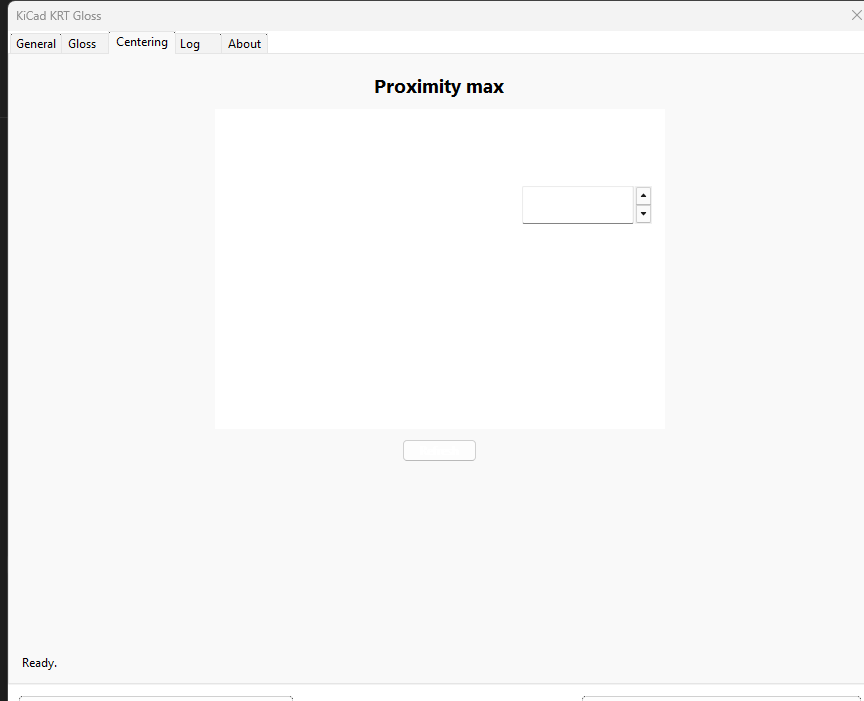
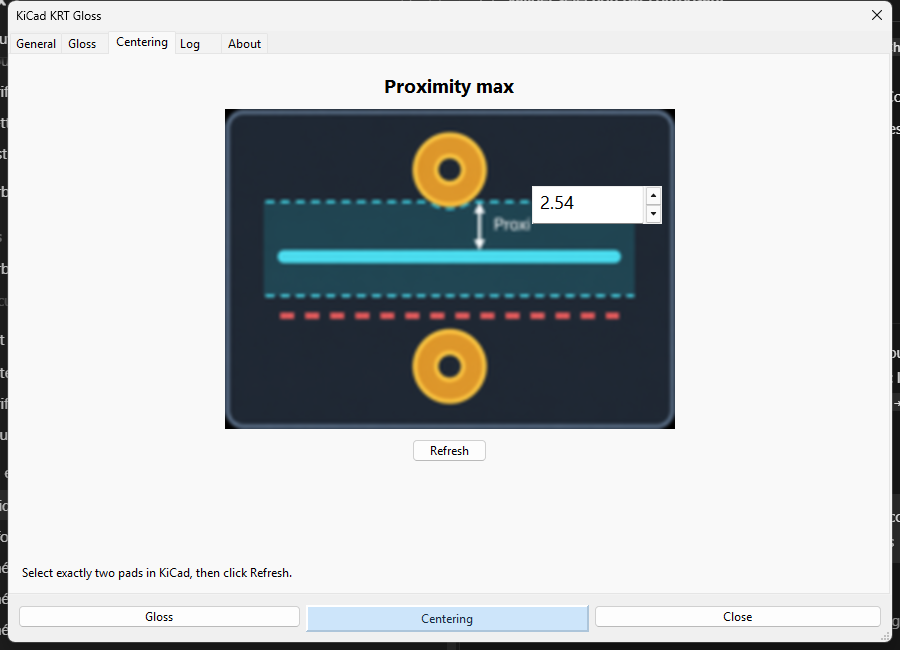
Condense English plugin guide and correct attribution

diff --git a/tests/test_plugin_boundaries.py b/tests/test_plugin_boundaries.py
@@ -220,7 +220,7 @@ def test_apply_uses_zone_refill_boundary():
 def test_pcm_presentation_keeps_authorship_and_plain_krt_link():
     metadata = json.loads((ROOT / "kicad_krt_gloss" / "metadata.json").read_text(
         encoding="utf-8"))
-    assert metadata["author"]["name"] == "Frantz with ChatGPT/Codex (OpenAI)"
+    assert metadata["author"]["name"] == "Frantz"
     assert metadata["maintainer"]["name"] == "Frantz"
     assert metadata["author"]["contact"]["github"] == (
         "https://github.com/fca1/kicad_krt_gloss")
@@ -591,7 +591,7 @@ def test_about_tab_uses_project_versions_and_attribution():
     assert '("KRG version:", __version__, None)' in source
     assert '("KRT version:", self._krt_version(), None)' in source
     assert '("Author:", "Frantz",' in source
-    assert '("Co-author:", "ChatGPT/Codex (OpenAI)", None)' in source
+    assert '("Assisted by:", "ChatGPT/Codex (OpenAI)", None)' in source
     assert '("KRT author:", "DrAndyHaas",' in source
     assert 'label="GitHub Repository"' in source
     assert '"https://github.com/fca1/kicad_krt_gloss"' in source
@@ -599,6 +599,16 @@ def test_about_tab_uses_project_versions_and_attribution():
     assert "info.AddSpacer(10)" in source
     assert "info.AddSpacer((1, 10))" not in source
     assert 'self.selected_net_label.SetLabel(f"Selected Nets: {len(names)}")' in source
+
+
+def test_public_readme_is_plugin_only_and_explains_two_pad_proximity():
+    readme = (ROOT / "README.md").read_text(encoding="utf-8")
+    assert "select <strong>exactly two pads</strong>" in readme
+    assert "Click <strong>Refresh</strong>" in readme
+    assert "centre-to-centre distance" in readme
+    assert "## Command line" not in readme
+    assert "python gloss.py" not in readme
+    assert "**Frantz** is the author" in readme
 
 
 def test_pcm_package_includes_the_about_logo():

diff --git a/kicad_krt_gloss/settings_dialog.py b/kicad_krt_gloss/settings_dialog.py
@@ -195,7 +195,7 @@ class GlossSettingsDialog(wx.Dialog):
             ("KRT version:", self._krt_version(), None),
             ("Author:", "Frantz",
              "https://github.com/fca1/kicad_krt_gloss"),
-            ("Co-author:", "ChatGPT/Codex (OpenAI)", None),
+            ("Assisted by:", "ChatGPT/Codex (OpenAI)", None),
             (None, None, None),
             ("KRT author:", "DrAndyHaas",
             "https://github.com/drandyhaas/KiCadRoutingTools"),

diff --git a/README.md b/README.md
@@ -1,189 +1,100 @@
 # KiCad KRT Gloss
 
-**Transformez un routage déjà terminé en un cuivre plus direct, plus simple et
-mieux centré, sans le redessiner.** KiCad KRT Gloss est un plugin pour
-l’Éditeur de circuit imprimé de KiCad : il améliore les pistes existantes en
-respectant les contraintes de votre carte.
+KiCad KRT Gloss shortens, simplifies and centres tracks on an already routed
+PCB. KRT remains responsible for obstacle, clearance and connectivity checks.
 
-![Un détour de piste devient une liaison plus directe.](docs/assets/gloss-before-after.png)
+![A routed detour replaced by a shorter connection.](docs/assets/gloss-before-after.png)
 
-Gloss ne remplace pas le routeur interactif et ne crée pas une carte à partir
-de rien. Il travaille uniquement sur le cuivre déjà routé. KRT reste chargé de
-vérifier les obstacles, les clearances et la connectivité avant qu’une
-modification ne soit acceptée.
+## Install
 
-## Installer et ouvrir le plugin
+In KiCad, open **Plugin and Content Manager**, choose **Install from File…**,
+select the plugin ZIP, then open **PCB Editor → Tools → External Plugins →
+KiCad KRT Gloss**.
 
-Installez l’archive ZIP du plugin dans KiCad : ouvrez le **Plugin and Content
-Manager**, choisissez **Install from File…**, sélectionnez l’archive, puis
-redémarrez KiCad si le plugin n’apparaît pas encore. Cette procédure est la
-même que celle employée par les plugins KiCad distribués au format PCM.
+## Choose the scope
 
-Dans l’**Éditeur de circuit imprimé**, ouvrez ensuite
-**Tools → External Plugins → KiCad KRT Gloss**. Vous pouvez aussi lancer le
-plugin depuis son icône de barre d’outils lorsque KiCad l’affiche.
+<table>
+<tr>
+<td width="58%"><img src="docs/assets/dialog-general.png" alt="General tab with the net list and elementary-branch scope"></td>
+<td>
+<ol>
+<li>Check the nets to process.</li>
+<li>Click a row to highlight its remembered scope in KiCad.</li>
+<li>Use <strong>Add</strong> or <strong>Replace</strong> to import the current
+KiCad selection; <strong>Clear</strong> empties the list.</li>
+</ol>
+<p>With <strong>Use elementary branches</strong> enabled, a selected track
+imports its complete branch up to pads, free ends or junctions. A row showing
+<code>n EB</code> contains remembered branches; an empty EB cell means the
+whole net. Disable the option to always process complete nets.</p>
+</td>
+</tr>
+</table>
 
-![L’onglet General rassemble la sélection et les réglages communs.](docs/assets/dialog-general.png)
+If nothing is selected in KiCad, the dialog opens with no checked net. The
+action buttons remain disabled until at least one net is checked.
 
-Deux raccourcis utiles :
+## Gloss
 
-- Avec des pistes d’un seul net sélectionnées, Gloss peut être lancé
-  directement avec les derniers réglages mémorisés.
-- Avec aucune piste, plusieurs nets, ou pour choisir précisément les réglages,
-  la fenêtre ci-dessus s’ouvre. Aucun net n’est coché par défaut si rien n’est
-  sélectionné : c’est volontaire, afin de ne jamais modifier toute la carte
-  par surprise.
+<table>
+<tr>
+<td width="58%"><img src="docs/assets/dialog-gloss.png" alt="Gloss tab"></td>
+<td>
+<ul>
+<li><strong>Stay in corridor</strong> prevents a movement from crossing or
+jumping over an obstacle.</li>
+<li><strong>Movable vias</strong> allows eligible unlocked vias to move.</li>
+<li><strong>Repeat Gloss until stable</strong> requests additional passes, up
+to the displayed G4 limit.</li>
+</ul>
+<p>Click <strong>Gloss</strong>. A valid route may remain unchanged when no safe
+improvement exists.</p>
+</td>
+</tr>
+</table>
 
-## Choisir ce que le plugin peut modifier
+## Centering and Proximity max
 
-La liste de gauche est le point de départ le plus important. Cochez les nets
-que vous souhaitez traiter ; le nombre apparaît dans **Selected Nets**. Cliquer
-sur une ligne permet de la repérer dans KiCad, tandis qu’une coche l’ajoute à
-l’action Gloss ou Centering.
+<table>
+<tr>
+<td width="58%"><img src="docs/assets/dialog-centering.png" alt="Centering tab with Proximity max"></td>
+<td>
+<p>To set <strong>Proximity max</strong> from the board:</p>
+<ol>
+<li>In KiCad, select <strong>exactly two pads</strong>.</li>
+<li>Open the <strong>Centering</strong> tab.</li>
+<li>Click <strong>Refresh</strong>.</li>
+<li>Check the centre-to-centre distance displayed in
+<strong>Proximity max</strong>.</li>
+<li>Check the target net and click <strong>Centering</strong>.</li>
+</ol>
+<p>The two-pad selection is used only to measure Proximity max. The checked net
+or remembered elementary branches define which track is processed.</p>
+</td>
+</tr>
+</table>
 
-![Une branche sélectionnée est limitée entre ses pads, extrémités ou jonctions.](kicad_krt_gloss/img_dlg/selection_scope_illustration.png)
+Proximity max is the largest pad centre-to-centre spacing accepted when
+detecting a gate. Centering first runs a corridor-constrained Gloss, then moves
+the track towards the middle of valid gates. No geometry transformation runs
+after Centering.
 
-Voici à quoi servent les commandes de l’onglet **General** :
+## Review the result
 
-| Réglage ou commande | Utilisation |
-| --- | --- |
-| **Filter** | Retrouve rapidement un net par son nom. |
-| **Comp Filter** / **Component** | Restreint la liste aux nets d’un composant, par exemple `U1`. |
-| **Separate by net class** | Range la liste par classes de nets lorsque la carte en utilise. |
-| **Select / Unselect** | Coche ou décoche les lignes actuellement mises en surbrillance. |
-| **Add** | Ajoute les nets des pistes actuellement sélectionnées dans KiCad aux coches existantes. |
-| **Replace** | Remplace les coches par les nets des pistes actuellement sélectionnées dans KiCad. |
-| **Clear** | Décoche tout, sans modifier votre sélection d’objets dans KiCad. |
-| **Use elementary branches** | Limite le travail à la branche complète portant la piste sélectionnée : elle s’arrête à un pad, une extrémité libre ou une jonction. Décochez cette case pour traiter les nets complets. |
-| **KRT grid step** | Définit la finesse de recherche. Une valeur plus petite peut trouver des gains plus fins, mais demande davantage de temps. |
-| **Time budget** | Limite le temps de la passe initiale. La préparation, la validation finale et les répétitions éventuelles peuvent prolonger le temps total. |
+The **Log** tab records the options, net names and result. The plugin also
+creates or reuses **TrackGloss Changes** on a free User layer: old copper is
+dashed and new copper is solid. This layer is a visual aid, not a replacement
+for KiCad's visual inspection and DRC.
 
-Une branche mémorisée reste liée à la géométrie qui a été importée. Après un
-remplacement de pistes, utilisez à nouveau **Add** ou **Replace** pour la
-réimporter. Lorsqu’un net est entièrement couvert par les branches importées,
-il est simplement traité comme un net complet.
+Gloss and Centering modify existing routing only. Locked or protected copper,
+arcs, differential pairs and constrained tracks remain protected.
 
-## Régler et lancer Gloss
+## Author and licence
 
-Sélectionnez l’onglet **Gloss**, vérifiez les options, puis cliquez sur le
-bouton **Gloss** en bas de la fenêtre. Le bouton reste indisponible tant
-qu’aucun net n’est coché.
+**Frantz** is the author, project owner and maintainer. The project was
+developed with assistance from **ChatGPT/Codex (OpenAI)**.
 
-![L’onglet Gloss présente les opérations qui raccourcissent et simplifient le cuivre.](docs/assets/dialog-gloss.png)
-
-| Option | Effet |
-| --- | --- |
-| **Stay in corridor** | Impose que chaque mouvement reste atteignable par une déformation continue et sûre depuis le tracé initial. Activez-la lorsque la piste ne doit pas franchir un obstacle, même si une position finale de l’autre côté semblerait libre. |
-| **Movable vias** | Autorise le déplacement d’un via déverrouillé lorsque ses deux raccords peuvent être raccourcis sans changer ses caractéristiques ni enfreindre les contrôles. |
-| **G4 — Repeat Gloss until stable** | Recommence des passes de Gloss jusqu’à ce qu’il n’y ait plus d’amélioration utile, dans la limite choisie. À réserver aux cas où vous voulez explorer davantage : une passe complète peut prendre du temps. |
-| **G4 passes** | Fixe le nombre maximal de répétitions G4. |
-
-![Le corridor interdit de traverser ou de « sauter » un obstacle pendant un déplacement.](kicad_krt_gloss/img_dlg/corridor_illustration.png)
-
-Gloss privilégie d’abord une réduction de longueur ; à longueur égale, il
-privilégie moins de segments. Il conserve la largeur, les couches, les
-connexions et les zones protégées. S’il ne trouve pas d’amélioration sûre, il
-laisse la piste telle quelle : c’est un résultat normal.
-
-## Recentrer une piste dans un passage
-
-Le **Centering** a un but différent de Gloss : il place une piste au mieux
-entre deux obstacles proches, par exemple entre deux pads ou deux zones de
-cuivre. Il peut donc conserver, voire augmenter légèrement, la longueur pour
-obtenir des marges plus équilibrées.
-
-![L’onglet Centering affiche la distance maximale utilisée pour reconnaître un passage.](docs/assets/dialog-centering.png)
-
-Dans cet onglet :
-
-- **Proximity max** indique la distance maximale, de centre à centre, entre
-  deux obstacles susceptibles de former un passage. La valeur peut aller de
-  0 à 5 mm ; 1 mm est la valeur initiale.
-- **Refresh** reprend cette distance à partir de deux pads exactement
-  sélectionnés dans KiCad, lorsque leur entraxe est compris entre 0 et 5 mm.
-- La ligne d’état sous l’illustration explique le résultat de cette opération
-  ou rappelle ce qui manque.
-
-![Une piste décentrée est replacée au milieu du passage disponible.](docs/assets/centering-before-after.png)
-
-Cliquez sur **Centering** dans la barre inférieure pour l’exécuter. L’action
-est atomique : elle lance d’abord Gloss en restant obligatoirement dans le
-corridor, recentre ensuite la piste, puis ne transforme plus la géométrie.
-Si l’ensemble ne peut pas être validé, le cuivre de départ est conservé.
-
-## Comprendre le résultat
-
-Après une action, le dialogue reste ouvert : vous pouvez ajuster un réglage et
-relancer sur la même sélection. L’onglet **Log** conserve les étapes, les
-gains et le résultat final ; **Copy Log** le copie, et **Clear Log** remet cet
-historique à zéro. L’onglet **About** rappelle les versions et crédits du
-plugin.
-
-![Le plugin affiche les différences : ancien cuivre pointillé, nouveau cuivre plein.](docs/assets/mobile-via-reduces-length.png)
-
-Sur la carte, le plugin utilise une couche utilisateur libre nommée
-**TrackGloss Changes** (ou la première couche `User.N` disponible) pour
-visualiser la différence : ancien cuivre en pointillé, nouveau cuivre en trait
-plein, et positions avant/après des vias déplacés. Cette couche est seulement
-une aide de lecture ; elle n’est pas incluse dans les Gerbers sauf si vous
-l’ajoutez volontairement à votre travail de tracé. Une couche déjà utilisée par
-votre projet n’est jamais écrasée.
-
-Avant de fabriquer la carte, conservez votre contrôle habituel : inspection
-visuelle, DRC KiCad et revue des modifications. La validation du plugin est un
-contrôle géométrique et électrique de son résultat ; elle ne remplace pas tous
-les contrôles de conception et de fabrication de KiCad.
-
-## Utiliser Gloss en ligne de commande
-
-La ligne de commande convient à un traitement reproductible de fichiers PCB.
-Elle exécute **Gloss** sur des nets complets ; le choix de branches et
-Centering restent volontairement réservés à la fenêtre KiCad.
-
-![Un même tracé peut être raccourci sans changer ses extrémités.](docs/assets/segment-count-reduction.png)
-
-```text
-python gloss.py input.kicad_pcb output.kicad_pcb --nets "/Cpu/*"
-python gloss.py input.kicad_pcb --component U1 --preview
-python gloss.py input.kicad_pcb --nets "/A" --stay-in-corridor --preview
-python gloss.py input.kicad_pcb --json-out gloss-summary.json
-python gloss.py input.kicad_pcb --debug-layer auto
-```
-
-Sans sélection de nets, la CLI traite tous les nets routés — à la différence
-de la fenêtre KiCad, qui attend une sélection explicite. `--preview` ne
-réécrit pas le PCB ; il peut néanmoins produire le rapport JSON demandé avec
-`--json-out`. `--stay-in-corridor` active la même protection de corridor que
-l’option du dialogue. `--debug-layer auto` ajoute une superposition
-avant/après sur une couche utilisateur libre.
-
-La sortie indique notamment le gain de longueur, les nets modifiés, les
-changements de segments et de vias, le statut de validation et le temps passé.
-
-## Limites à connaître
-
-![Les contraintes de passage restent prioritaires sur toute tentative de déplacement.](docs/assets/admissible-corridor.png)
-
-- Gloss et Centering traitent un routage existant ; ils ne sont pas un
-  autorouteur.
-- Les pistes avec contraintes de longueur ou de temps, paires différentielles,
-  contraintes d’impédance, cuivre verrouillé ou arcs sont protégées et ne
-  deviennent pas modifiables par une simple sélection.
-- Centering recherche des passages définis par deux obstacles ; un obstacle
-  isolé n’entraîne pas de recentrage.
-- Un résultat sans changement peut indiquer que le tracé est déjà le meilleur
-  résultat sûr dans la portée choisie.
-
-## Auteurs et licence
-
-![Icône du plugin KiCad KRT Gloss.](kicad_krt_gloss/icon_64.png)
-
-L’adaptation autonome est développée par **ChatGPT/Codex (OpenAI)** avec
-**Frantz**, co-auteur, propriétaire et mainteneur du projet. **DrAndyHaas**
-est l’auteur principal de
-[KiCad Routing Tools (KRT)](https://github.com/drandyhaas/KiCadRoutingTools),
-sur lequel ce projet s’appuie.
-
-KiCad KRT Gloss est distribué sous [licence MIT](LICENSE). Les crédits détaillés
-et avis conservés figurent dans [AUTHORS.md](docs/AUTHORS.md) et
-[NOTICE](NOTICE).
+**DrAndyHaas** is the author and primary code provenance of
+[KiCad Routing Tools (KRT)](https://github.com/drandyhaas/KiCadRoutingTools).
+KiCad KRT Gloss is distributed under the [MIT License](LICENSE); detailed
+provenance is recorded in [AUTHORS.md](docs/AUTHORS.md) and [NOTICE](NOTICE).

diff --git a/docs/REPRISE_PROJET.md b/docs/REPRISE_PROJET.md
@@ -1,5 +1,14 @@
 # Reprendre Smooth Gloss KRT
 
+Le mode d'emploi public racine est volontairement court, en anglais et limité
+au plugin KiCad : ne pas y réintroduire le mode d'emploi CLI. Les captures
+General, Gloss et Centering sont présentées à côté de leur texte. La procédure
+Proximity max doit rester explicite : sélectionner exactement deux pads dans
+KiCad, cliquer sur Refresh, vérifier la distance centre-à-centre, puis lancer
+Centering sur le scope coché. Attribution officielle : Frantz est l'auteur,
+propriétaire et mainteneur ; ChatGPT/Codex (OpenAI) apporte une assistance au
+développement et n'est pas présenté comme co-auteur.
+
 Les cinq optimisations du prototype performances 448b991 sont intégrées en
 production à la demande utilisateur : `dgloss/clearance_preparation.py` prépare
 les distances et filtres ; `krt_clearance.py` les appelle sans monkey-patch.

diff --git a/docs/AUTHORS.md b/docs/AUTHORS.md
@@ -1,9 +1,9 @@
 # Authors and provenance
 
-- **ChatGPT/Codex (OpenAI)** — creation and development of the standalone
+- **Frantz** — author, project owner and maintainer of the standalone
   adaptation.
-- **Frantz** — co-author, project owner and maintainer of the standalone
-  adaptation.
+- **ChatGPT/Codex (OpenAI)** — assistance with the development of the
+  standalone adaptation.
 - **DrAndyHaas** — author and primary code provenance of KiCad Routing Tools,
   consumed by this project under the MIT License as the `KRT` submodule.
 

diff --git a/docs/COMMUNITY_RELEASE.md b/docs/COMMUNITY_RELEASE.md
@@ -31,5 +31,5 @@ then submit the package metadata through the official KiCad addons metadata
 repository process.
 
 The package is MIT-licensed and preserves the copyright and primary code
-provenance of DrAndyHaas. The standalone adaptation was created with
-ChatGPT/Codex (OpenAI); Frantz is co-author and maintainer.
+provenance of DrAndyHaas. Frantz is the author and maintainer of the standalone
+adaptation, developed with assistance from ChatGPT/Codex (OpenAI).
